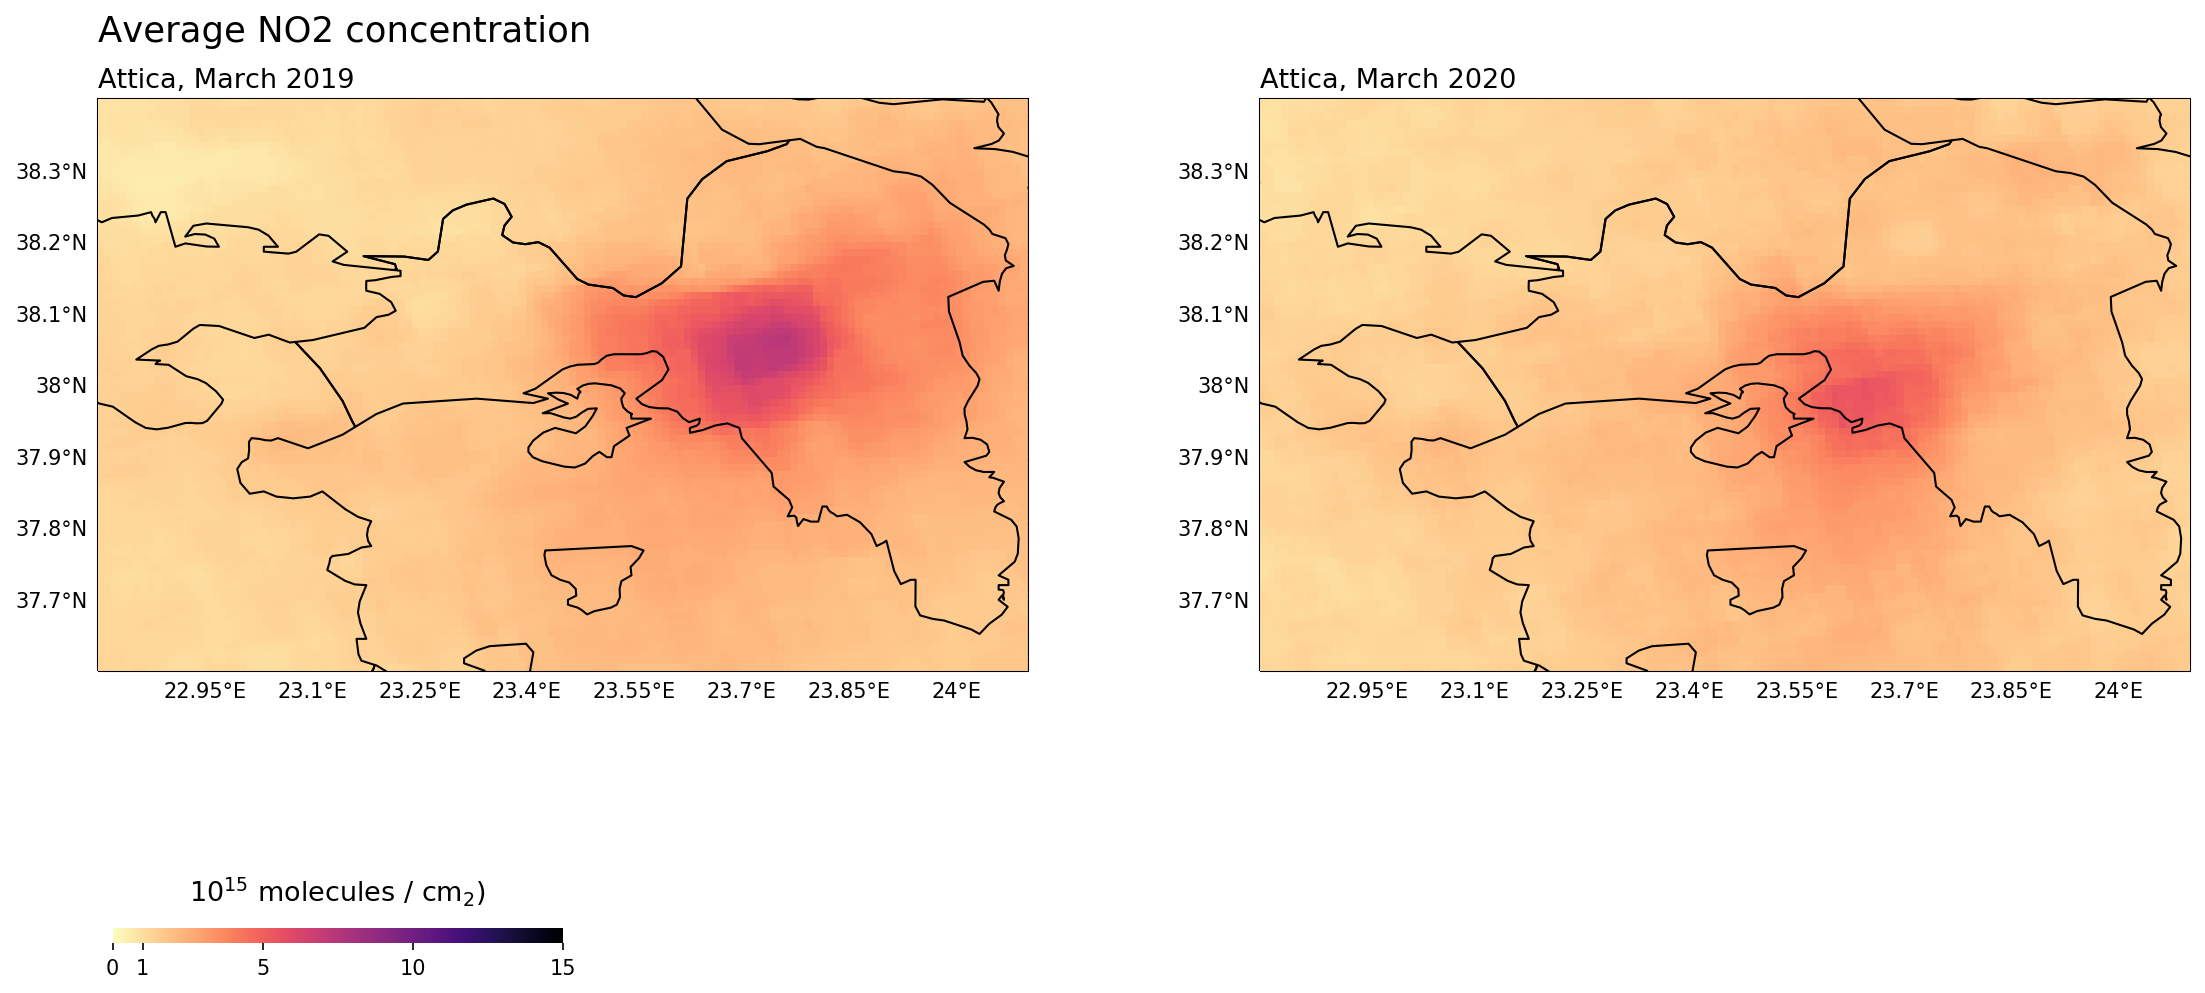
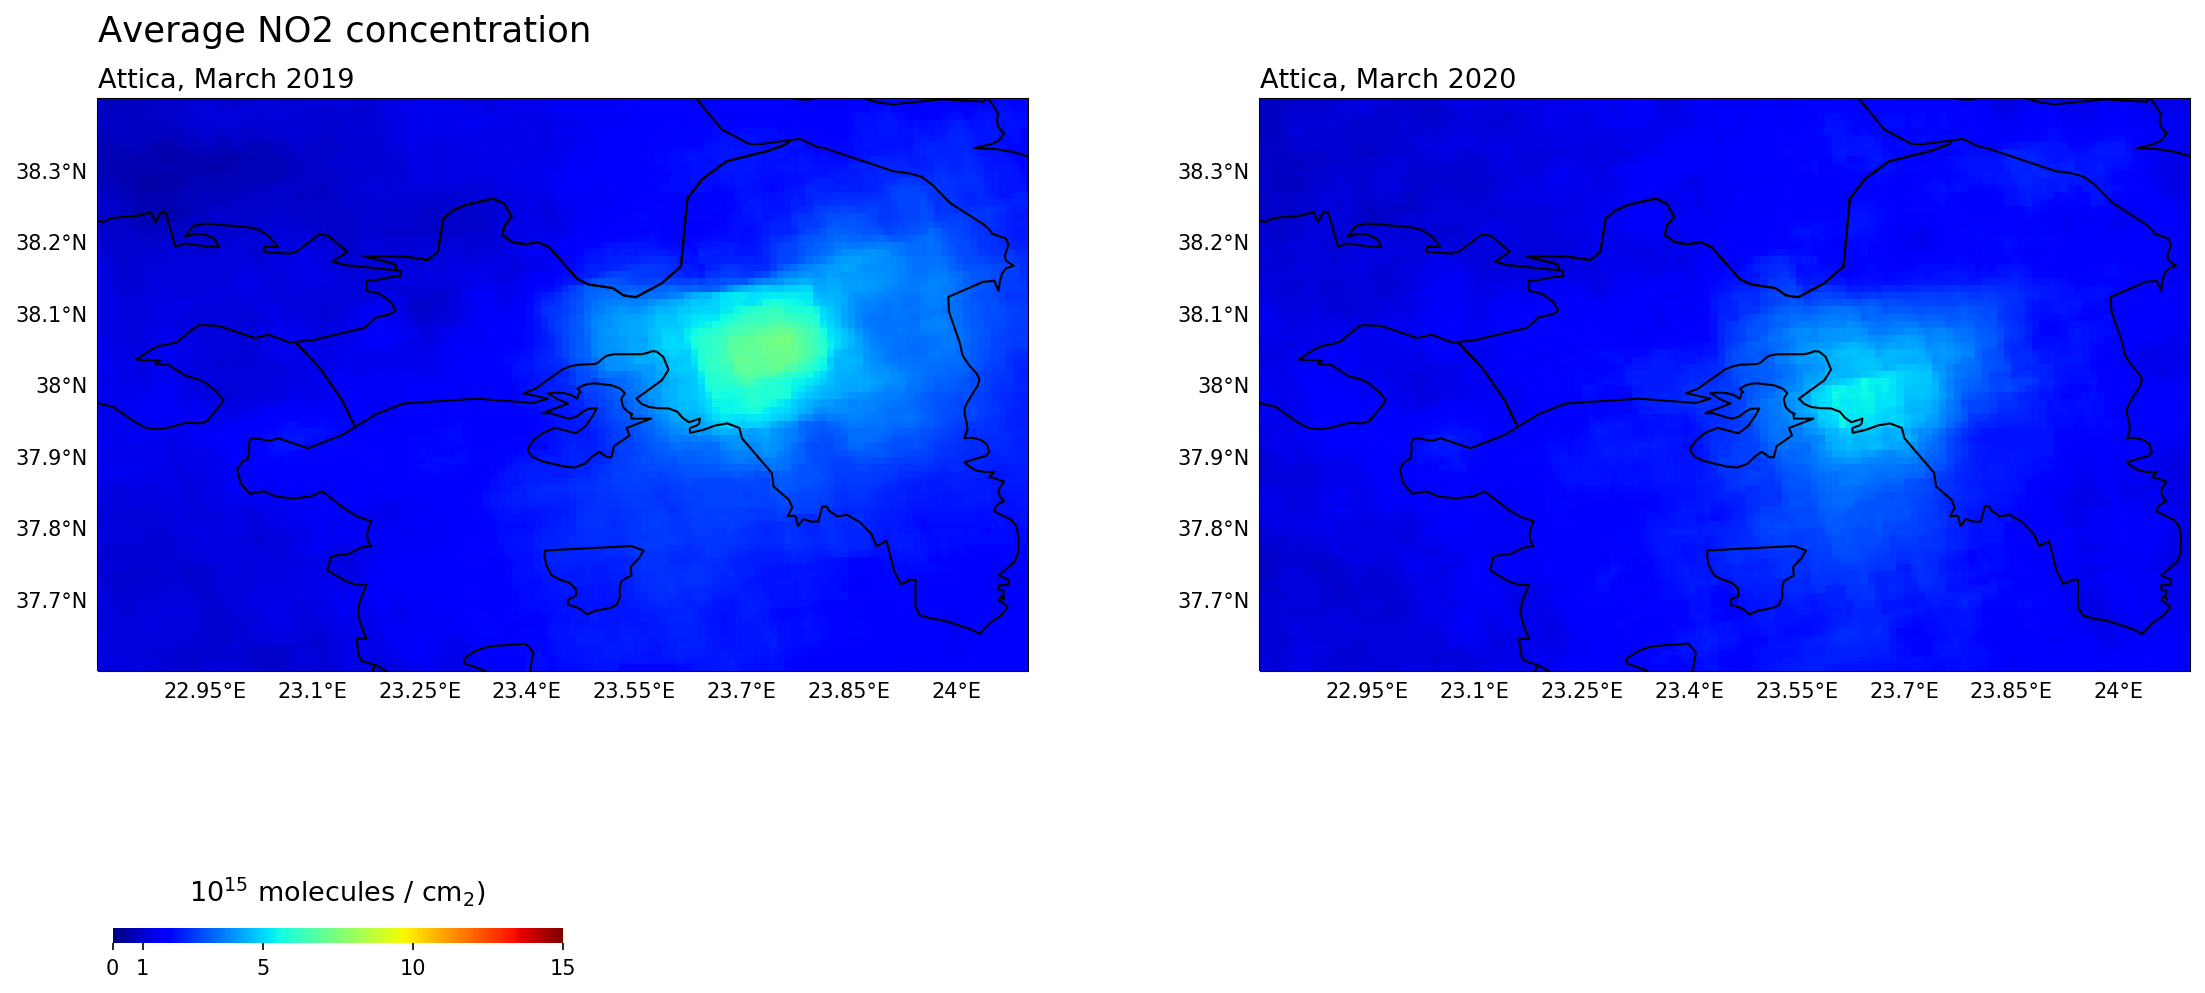
Changed Colormap

diff --git a/generate_graphs.py b/generate_graphs.py
@@ -65,10 +65,10 @@ def generate_graph(coordinates, country, region=None):
     ax2.add_geometries(poly, crs=ccrs.PlateCarree(), facecolor='none', edgecolor='black', zorder=3)
     
     # Add NO2 data
-    im1 = no2_MCH_19_mean.plot.pcolormesh(ax=ax1, transform=ccrs.PlateCarree(), cmap='magma_r', vmin=0, vmax=15, x='longitude', y='latitude', zorder=3)
+    im1 = no2_MCH_19_mean.plot.pcolormesh(ax=ax1, transform=ccrs.PlateCarree(), cmap='jet', vmin=0, vmax=15, x='longitude', y='latitude', zorder=3)
     im1.colorbar.remove()
     
-    im2 = no2_MCH_20_mean.plot.pcolormesh(ax=ax2, transform=ccrs.PlateCarree(), cmap='magma_r', vmin=0, vmax=15, x='longitude', y='latitude', zorder=3)
+    im2 = no2_MCH_20_mean.plot.pcolormesh(ax=ax2, transform=ccrs.PlateCarree(), cmap='jet', vmin=0, vmax=15, x='longitude', y='latitude', zorder=3)
     im2.colorbar.remove()
     
     
